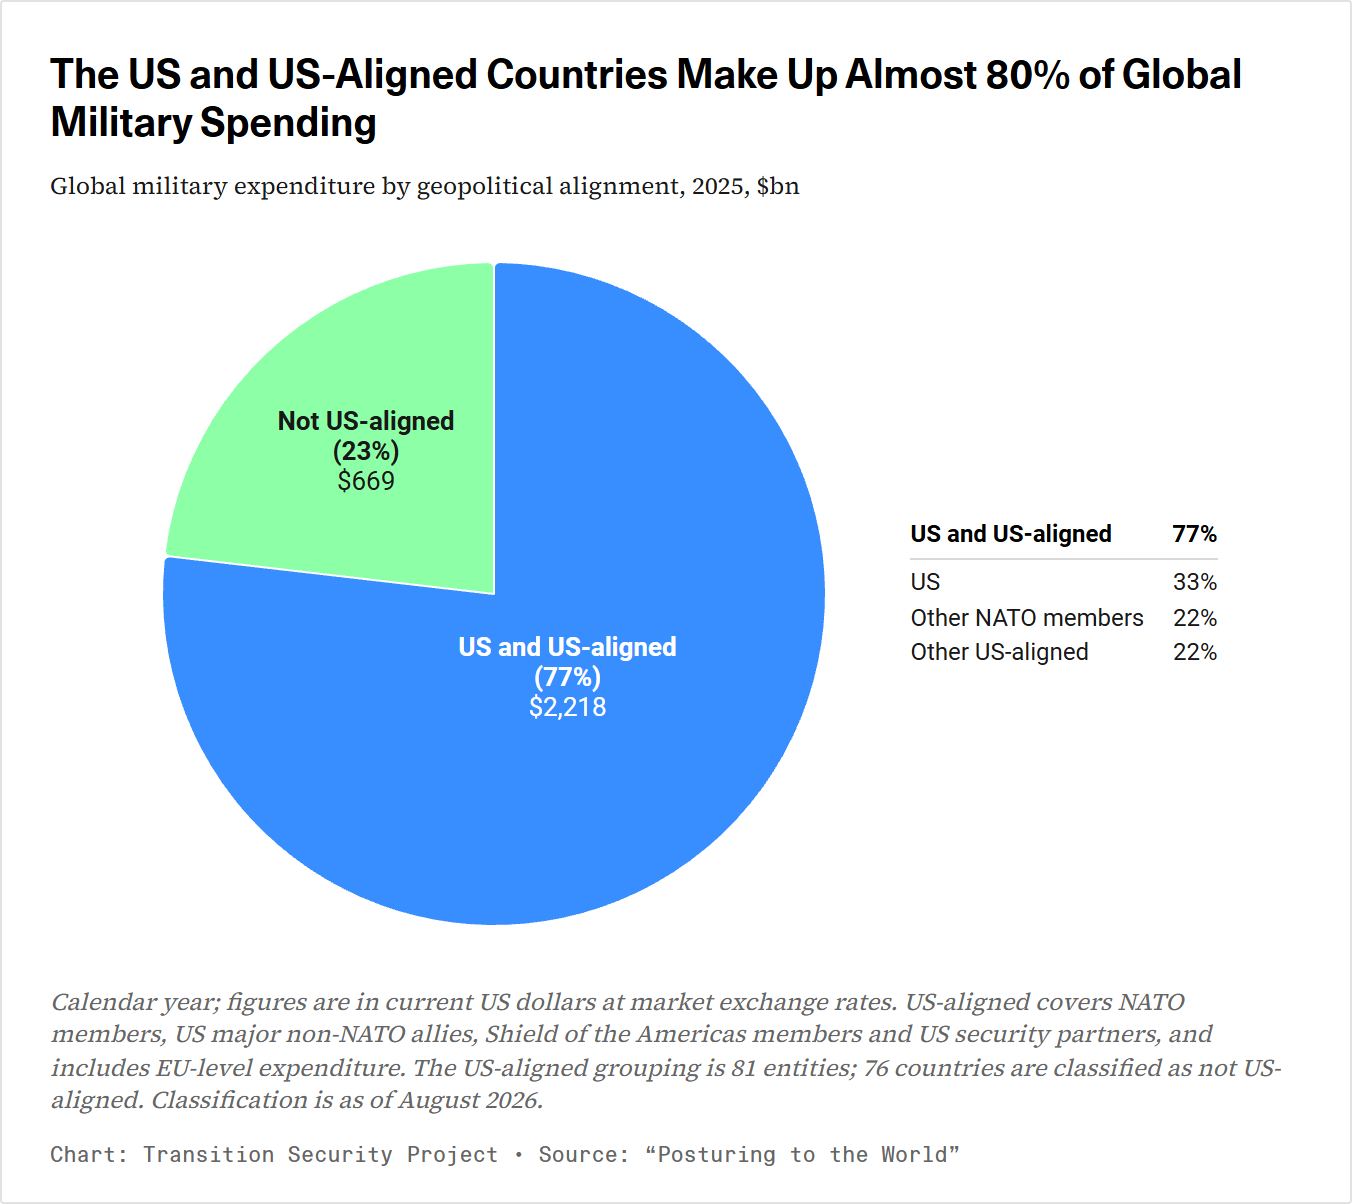
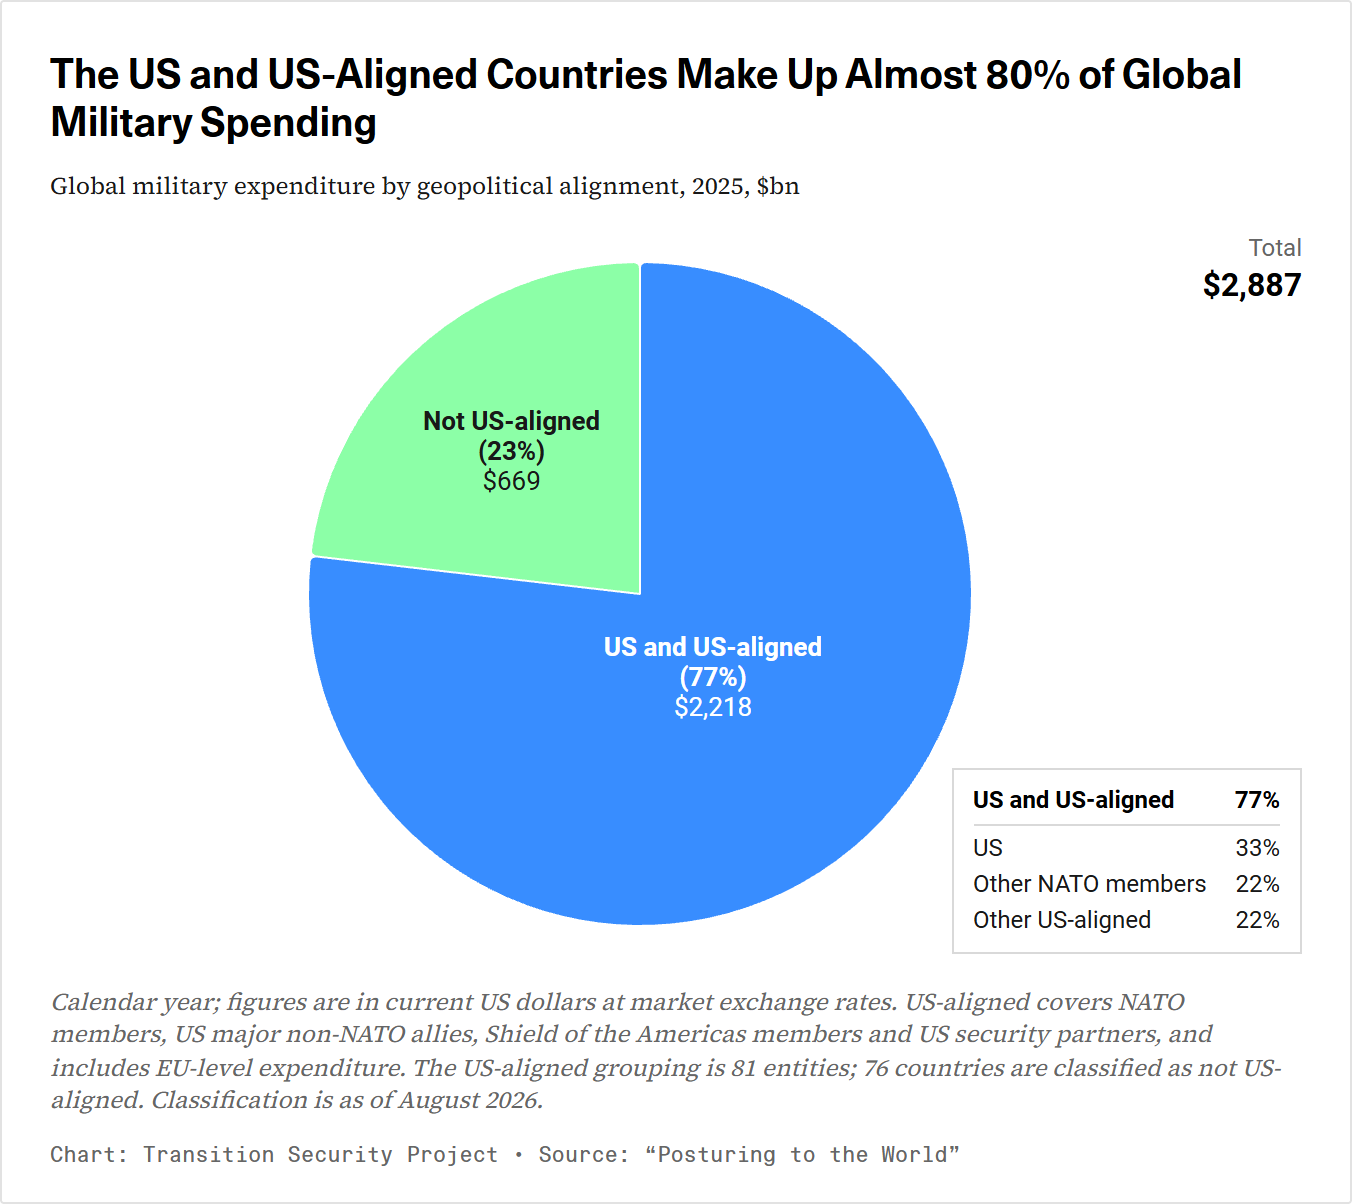
Update the separate pages

diff --git a/js/alignment.js b/js/alignment.js
@@ -36,8 +36,38 @@ start(["alignment.json"], (d) => {
     }
   }
 
+  // Where the total and the boxed breakdown sit in the top and bottom right corners of the chart space (wide frames),
+  // the pie moves left of centre only as far as it must to keep 12px clear of both, and shrinks only if it must;
+  // elsewhere it is centred, at its full size. Run after each draw, once the page has laid out (on a timer, which runs
+  // in a frame scrolled out of view, as animation frames may not).
+  let fitting;
+  function queueFit(ch) {
+    clearTimeout(fitting);
+    fitting = setTimeout(() => fitPie(ch), 0);
+  }
+  function fitPie(ch) {
+    const s = ch.series[0], w = ch.plotWidth, h = ch.plotHeight, cy = Math.floor(h / 2);
+    // Full size leaves 10px round the pie.
+    let r = Math.floor(Math.min(w, h) / 2) - 10, cx = w / 2;
+    if (getComputedStyle(el("inset")).position === "absolute") {
+      const origin = el("chart").getBoundingClientRect(), gap = 12;
+      const boxes = [el("total"), el("inset")].map((e) => e.getBoundingClientRect())
+        .map((b) => [b.left - origin.left - ch.plotLeft, b.top - origin.top - ch.plotTop, b.bottom - origin.top - ch.plotTop]);
+      for (; r > h / 3; r -= 2) {
+        cx = w / 2;
+        for (const [left, top, bottom] of boxes) {
+          const dy = cy < top ? top - cy : cy > bottom ? cy - bottom : 0;
+          if (dy < r + gap) cx = Math.min(cx, left - Math.sqrt((r + gap) ** 2 - dy ** 2));
+        }
+        if (cx >= r) break;
+      }
+    }
+    const center = [Math.floor(cx), cy], size = 2 * r;
+    if (String(s.options.center) !== String(center) || s.options.size !== size) s.update({ center, size });
+  }
+
   const chart = Highcharts.chart(el("chart"), {
-    chart: { type: "pie", spacing: [4, 4, 4, 4], events: { render() { placeLabels(this); } } },
+    chart: { type: "pie", spacing: [4, 4, 4, 4], events: { render() { placeLabels(this); queueFit(this); } } },
     accessibility: { screenReaderSection: { beforeChartFormat: screenReaderHeading("Global military spending by alignment chart") },
       description: `Global military expenditure in ${d.year}, ${usd(d.total)}bn: US and US-aligned ${usd(aligned)}bn (${alignedPct}%), `
         + `not US-aligned ${usd(g.not_aligned)}bn (${100 - alignedPct}%).`,
@@ -45,7 +75,8 @@ start(["alignment.json"], (d) => {
     legend: { enabled: false },
     // No tooltips, and nothing changes on hover: the labels say it all.
     tooltip: { enabled: false },
-    plotOptions: { pie: { startAngle: 0, borderWidth: 1, borderColor: "#ffffff", size: "100%",
+    // No room kept for pulled-out slices, so the centre and size fitPie gives are the pie's own.
+    plotOptions: { pie: { startAngle: 0, borderWidth: 1, borderColor: "#ffffff", size: "100%", slicedOffset: 0,
       states: { hover: { enabled: false }, inactive: { enabled: false } },
       // Room for each label's longest line, or Highcharts squeezes the box and that line spills to the right of the
       // others; placeLabels moves the boxes, and nothing is hidden for overlapping where Highcharts first puts them.
@@ -76,6 +107,10 @@ start(["alignment.json"], (d) => {
       list.append(dt, dd);
     }
     inset.append(list);
+    // The world's total, in the chart's units.
+    const total = document.createElement("b");
+    total.textContent = usd(d.total);
+    el("total").replaceChildren("Total", total);
     el("notes").textContent = "Calendar year; figures are in current US dollars at market exchange rates. US-aligned covers "
       + "NATO members, US major non-NATO allies, Shield of the Americas members and US security partners, and includes "
       + `EU-level expenditure. The US-aligned grouping is ${d.aligned_entities} entities; ${d.not_aligned_countries} countries `
@@ -85,5 +120,7 @@ start(["alignment.json"], (d) => {
 
 
   update();
+  // The first fit before the page is first painted, so the pie doesn't jump.
+  fitPie(chart);
   window.matchMedia("(max-width: 499px)").addEventListener("change", update);
 });

diff --git a/css/style.css b/css/style.css
@@ -26,7 +26,8 @@ body { margin: 0; color: var(--ink); font-family: var(--mono); font-size: 14px; 
   box-shadow: 0 1px 2px rgba(0, 0, 0, 0.05), 0 4px 16px rgba(0, 0, 0, 0.08); padding: 24px 24px 16px; }
 
 .visually-hidden { position: absolute; width: 1px; height: 1px; overflow: hidden; clip-path: inset(50%); white-space: nowrap; }
-.options { border-bottom: 1px solid var(--grid); margin: 0 0 16px; padding-bottom: 16px; }
+/* The options sit below the chart, ruled off from it and from the caption. */
+.options { border-top: 1px solid var(--grid); border-bottom: 1px solid var(--grid); margin: 0 0 16px; padding: 16px 0; }
 .options-title { font-family: var(--sans); font-size: 20px; color: var(--ink); margin: 0 0 16px; }
 .chart-title { font-family: var(--sans); font-size: 20px; color: var(--title); line-height: 1.2; margin: 0 0 12px; }
 .description { font-family: var(--serif); font-size: 12px; line-height: 1.35; margin: 0 0 16px; }
@@ -47,11 +48,14 @@ body { margin: 0; color: var(--ink); font-family: var(--mono); font-size: 14px; 
 .chart { height: 400px; margin: 16px 0 16px; }
 .chart.bars { height: 230px; }
 .chart.pie { height: 360px; }
-/* The pie with its breakdown beside it, the two centred together. The breakdown is small: its total in bold, ruled off
-   from the parts below it. */
-.pie-row { display: flex; align-items: center; justify-content: center; gap: 28px; margin: 16px 0; }
-.pie-row .chart { flex: 0 1 360px; min-width: 0; margin: 0; }
-.inset { flex: 0 0 auto; font-family: var(--chart); font-size: 12px; line-height: 1.3; color: var(--ink); }
+/* The pie fills the chart space, with the total in its top right corner and the breakdown of the larger slice, boxed,
+   in its bottom right; the script moves the pie left of centre only as far as it must to keep clear of them. The
+   breakdown's total is in bold, ruled off from the parts below it. */
+.pie-space { position: relative; margin: 16px 0; }
+.pie-space .chart { margin: 0; }
+.pie-total { position: absolute; top: 0; right: 0; margin: 0; font-family: var(--chart); font-size: 12px; line-height: 1.3; color: var(--note); text-align: right; }
+.pie-total b { display: block; font-size: 16px; color: var(--title); }
+.inset { position: absolute; right: 0; bottom: 0; border: 1px solid var(--rule); background: #ffffff; padding: 8px 10px; font-family: var(--chart); font-size: 12px; line-height: 1.3; color: var(--ink); }
 .inset dl { margin: 0; display: grid; grid-template-columns: auto auto; row-gap: 2px; }
 .inset dt, .inset dd { margin: 0; }
 .inset dd { text-align: right; padding-left: 14px; }
@@ -79,8 +83,10 @@ body { margin: 0; color: var(--ink); font-family: var(--mono); font-size: 14px; 
   .chart.bars { height: 300px; }
   .chart.pie { height: 300px; }
 }
-/* Too narrow for the breakdown beside a full-sized pie: it goes below, centred. */
+/* Too narrow for the total and the breakdown in the corners beside a full-sized pie: they go below it, centred. */
 @media (max-width: 599px) {
-  .pie-row { flex-direction: column; gap: 12px; }
-  .pie-row .chart { flex: none; align-self: stretch; }
+  .pie-space { display: flex; flex-direction: column; align-items: center; gap: 12px; }
+  .pie-space .chart { align-self: stretch; }
+  .pie-total, .inset { position: static; }
+  .pie-total { text-align: center; }
 }

diff --git a/js/extra-spending.js b/js/extra-spending.js
@@ -50,9 +50,9 @@ start(["model_inputs.json"], (inputs) => {
       // The gap, with its total written inside it (the last series). Screen readers skip both: the description gives it.
       { type: "arearange", name: "Extra spending", color: COLOURS.green, fillOpacity: 1, lineWidth: 0, enableMouseTracking: false,
         data: [], zIndex: 0, accessibility: { enabled: false } },
-      { name: `Spending to ${lab(BASE)}, then the announced path`, color: COLOURS.blue, lineWidth: 2, data: [], zIndex: 3,
+      { name: `Spending to ${lab(BASE)}, then the announced path`, color: COLOURS.blue, lineWidth: 2.5, data: [], zIndex: 3,
         accessibility: { point: { descriptionFormatter: (p) => pointText(p.x, p.x > BASE ? "Announced path" : "Spending", p.y) } } },
-      { name: "Baseline", color: COLOURS.teal, lineWidth: 2, dashStyle: "Dash", data: [], zIndex: 2 },
+      { name: "Baseline", color: COLOURS.teal, lineWidth: 2.5, dashStyle: "Dash", data: [], zIndex: 2 },
       { type: "scatter", name: "Extra spending label", data: [], marker: { enabled: false }, enableMouseTracking: false,
         accessibility: { enabled: false }, zIndex: 4 },
     ],

diff --git a/extra-spending/index.html b/extra-spending/index.html
@@ -16,13 +16,13 @@
   <article class="card">
     <p class="load-error" data-el="load-error" role="alert" hidden>The chart could not load. Reload the page, or check your connection.</p>
     <section data-chart-page hidden>
+      <h1 class="chart-title" data-el="title" aria-live="polite"></h1>
+      <p class="description" data-el="description"></p>
+      <div class="chart" data-el="chart"></div>
       <div class="options">
         <h2 class="options-title" id="options-title">Assumptions</h2>
         <section class="controls" data-el="controls" aria-labelledby="options-title"></section>
       </div>
-      <h1 class="chart-title" data-el="title" aria-live="polite"></h1>
-      <p class="description" data-el="description"></p>
-      <div class="chart" data-el="chart"></div>
       <p class="notes" data-el="notes"></p>
       <footer class="footer">
         <span data-el="source"></span>

diff --git a/js/historical.js b/js/historical.js
@@ -46,8 +46,8 @@ start(["model_inputs.json"], (inputs) => {
     },
     tooltip: { formatter() { return `${lab(this.x)}: £${this.y.toFixed(1)}bn`; } },
     series: [
-      { name: "NATO", color: COLOURS.blue, lineWidth: 2, data: [] },
-      { name: "Announced path", color: COLOURS.blue, lineWidth: 2, dashStyle: "Dash", data: [],
+      { name: "NATO", color: COLOURS.blue, lineWidth: 2.5, data: [] },
+      { name: "Announced path", color: COLOURS.blue, lineWidth: 2.5, dashStyle: "Dash", data: [],
         // Its first point is the NATO figure the path starts from.
         accessibility: { point: { descriptionFormatter: (p) =>
           pointText(p.x, p.x > PRICE_YEAR ? p.series.name : p.series.chart.series[0].name, p.y) } } },

diff --git a/alignment/index.html b/alignment/index.html
@@ -17,8 +17,9 @@
     <section data-chart-page hidden>
       <h1 class="chart-title" data-el="title"></h1>
       <p class="description" data-el="description"></p>
-      <div class="pie-row">
+      <div class="pie-space">
         <div class="chart pie" data-el="chart"></div>
+        <p class="pie-total" data-el="total"></p>
         <aside class="inset" data-el="inset"></aside>
       </div>
       <p class="notes" data-el="notes"></p>
